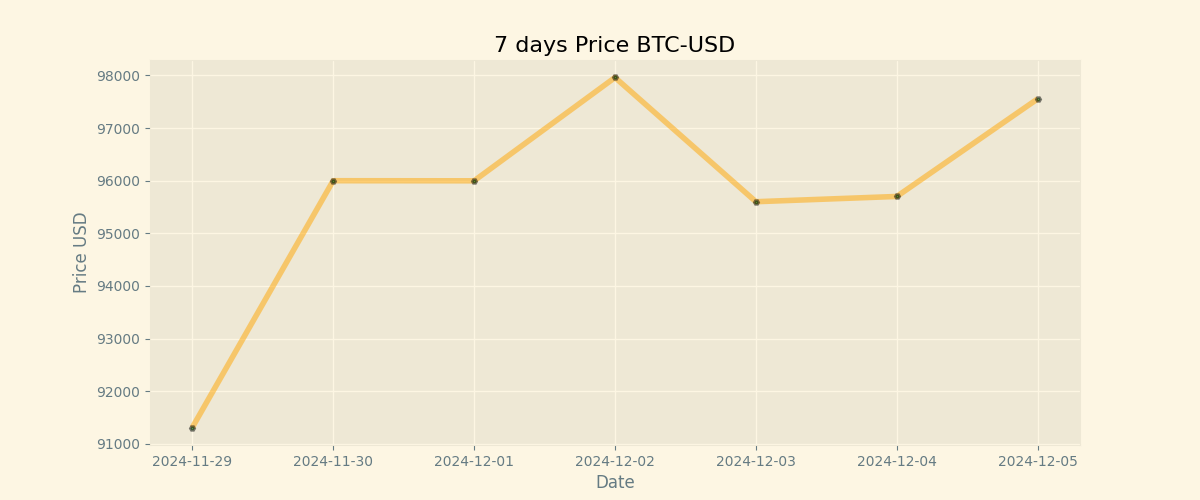
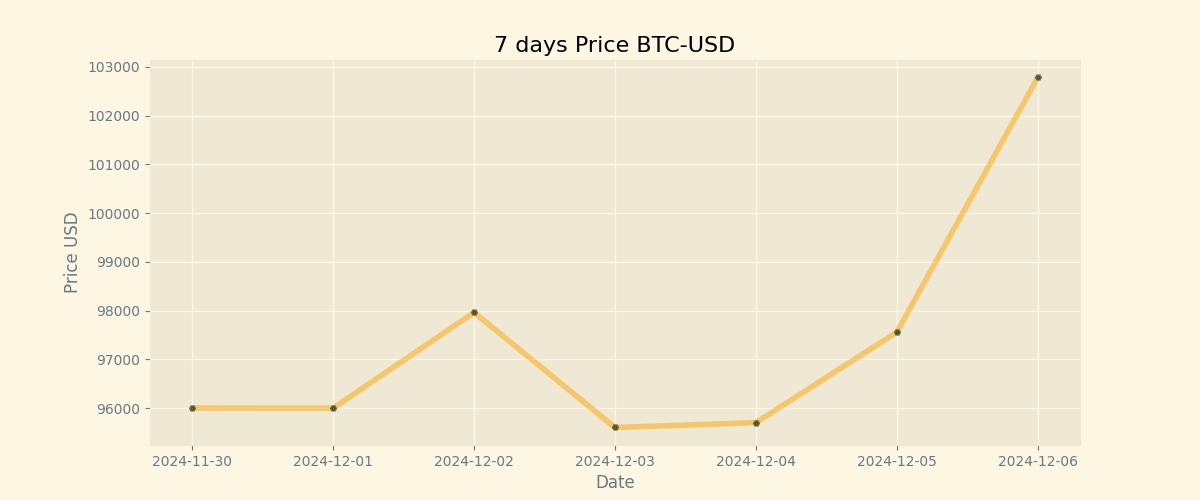
Duty Updates 2024-12-06

diff --git a/README.md b/README.md
@@ -9,8 +9,8 @@
 
 | Currency | Price           |
 | -------- | --------------- |
-| **BTC**  | **$ 97555.0** |
-| **ETH**  | **$ 3700.0** |
+| **BTC**  | **$ 102781.82** |
+| **ETH**  | **$ 3810.59** |
 
 ## BTC chart
 
